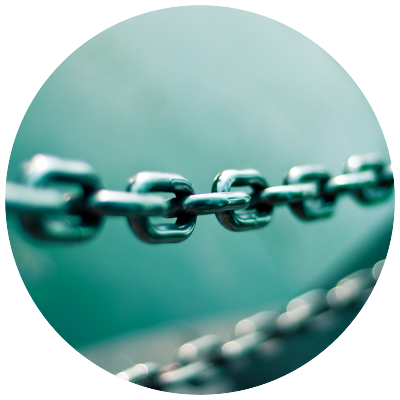
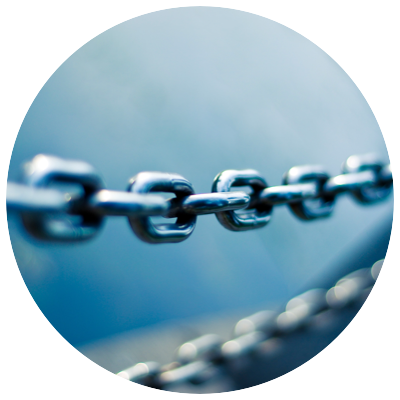
UI changes to make page look nicer

diff --git a/src/templates/index.html b/src/templates/index.html
@@ -10,6 +10,8 @@
   <link href="https://fonts.googleapis.com/css?family=Montserrat:400,700" rel="stylesheet" type="text/css" />
   <link href="https://fonts.googleapis.com/css?family=Lato:400,700,400italic,700italic" rel="stylesheet"
     type="text/css" />
+  <!-- Font Awesome -->
+  <link rel="stylesheet" href="https://stackpath.bootstrapcdn.com/font-awesome/4.7.0/css/font-awesome.min.css" integrity="sha384-wvfXpqpZZVQGK6TAh5PVlGOfQNHSoD2xbE+QkPxCAFlNEevoEH3Sl0sibVcOQVnN" crossorigin="anonymous">
   <!-- Custom Styles -->
   <link href="{{ url_for('static', filename='css/styles.css') }}" rel="stylesheet" type="text/css" />
 </head>
@@ -37,14 +39,16 @@
       </form>
       <!-- Shortend Result -->
       <div id="result" class="d-none">
-        <strong>
-          Shortened URL: <span id="short_url"></span>
-        </strong>
+        <span class="mr-2">
+          <strong>Shortened URL:</strong>
+        </span>
+        <a id="short-url"></a>
+        <i id="copy-icon" class="fa fa-copy ml-3"></i>
       </div>
     </div>
   </header>
 
-  <div class="container">
+  <div class="container mt-4">
     <span>Photo by <a
         href="https://unsplash.com/@jjying?utm_source=unsplash&amp;utm_medium=referral&amp;utm_content=creditCopyText">JJ
         Ying</a> on <a
@@ -75,9 +79,22 @@
           'dataType': 'json',
         }).done(function (result) {
           $('#result').removeClass('d-none');
-          $('#short_url').html(result.shortened_url);
+          $('#short-url')
+            .html('http://localhost:5000' + result.shortened_url)
+            .attr('href', 'http://localhost:5000' + result.shortened_url);
         });
 
+      });
+
+      $('#copy-icon').on('click', function (e) {
+        var link = $('#short-url').attr('href');
+
+        /* Copy to Clipboard */
+        var $temp = $("<input>");
+        $("body").append($temp);
+        $temp.val(link).select();
+        document.execCommand("copy");
+        $temp.remove();
       });
     });
   </script>

diff --git a/src/static/css/styles.css b/src/static/css/styles.css
@@ -21,7 +21,7 @@ body {
 }
 
 .bg-primary {
-    background-color: #1abc9c !important;
+    background-color: #1aadbc !important;
 }
 
 .bg-secondary {
@@ -29,7 +29,7 @@ body {
 }
 
 .btn-primary {
-    background-color: #23957f !important;
+    background-color: #237595 !important;
     border-color: #266f49 !important;
 }
 
@@ -38,9 +38,13 @@ body {
     padding-bottom: 6rem;
 }
 
+.masthead a {
+    color: white;
+}
+
 .masthead-avatar {
-    width: 15%;
-    height: 15%;
+    width: 20%;
+    height: 20%;
 }
 
 form#url-form {
@@ -54,4 +58,17 @@ form#url-form {
 
 #url {
     width: 100%;
+}
+
+#result {
+    width: 80%;
+    border: 2px solid white;
+    margin-top: 25px;
+    padding: 20px;
+    border-radius: 10px;
+    font-size: 1.3em;
+}
+
+#result i {
+    cursor: pointer;
 }
